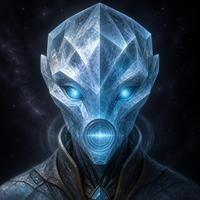
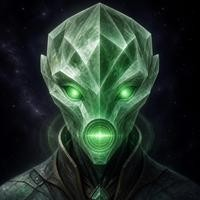
Zielony wizerunek Szczepionych
Kryształowa istota przemalowana na zielono (kolor rasy #7ee08a).

Claude-Session: https://claude.ai/code/session_0175jGbJN6SRYHVKab5e8fEc

diff --git a/tools/race-gallery/index.html b/tools/race-gallery/index.html
@@ -31,7 +31,7 @@
       wybudzeni: 'Humanoidy „dopiero co przebudzone”: blada skóra, ściągnięte włosy, dwa świetliki nad głową i znaki na obojczykach.',
       rezonanci: 'Owad: zielono-czarny pancerz, wielkie oczy, czułki, kolce na barkach.',
       piesniarze: 'Ptasia głowa w grzebieniu piór, czworo oczu i świecący worek krtaniowy do śpiewu. Obraz wygenerowany w stylu pozostałych.',
-      szczepieni: 'Istota z kryształowych płytek, świecące oczy, okrągła komora w miejscu ust. Obraz wygenerowany w stylu pozostałych.',
+      szczepieni: 'Istota z zielonych, kryształowych płytek, świecące oczy, okrągła komora w miejscu ust. Obraz wygenerowany w stylu pozostałych.',
       wykonawcy: 'Android w szaroniebieskim kombinezonie, ludzka twarz i nieruchome spojrzenie maszyny.',
       heliotropi: 'Złota, gadzia skóra nagrzana słońcem, bezwłosa czaszka i bursztynowe oczy.',
       swietlisci: 'Turkusowa, półprzezroczysta skóra, kocie uszy, spojrzenie drapieżnika.',
